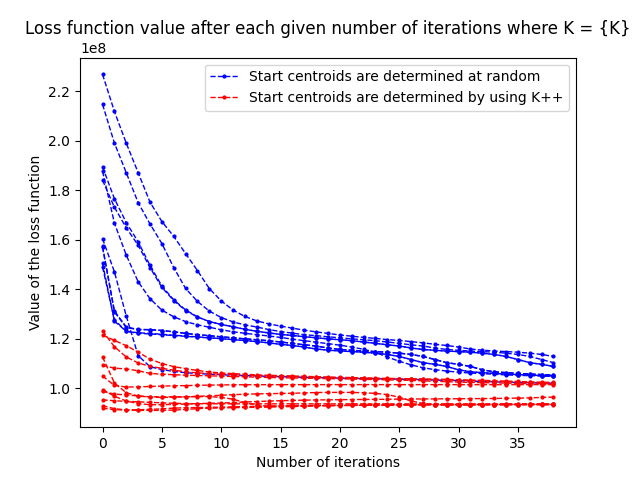
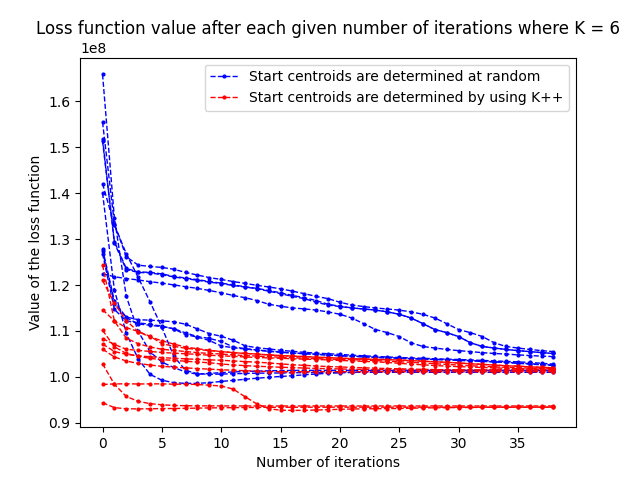
Updated the graphs that show the difference between the two starting methods

diff --git a/Question1/Question 1a/ComparingStartCentroidMethods.py b/Question1/Question 1a/ComparingStartCentroidMethods.py
@@ -9,6 +9,7 @@ import matplotlib.pyplot as plt
 dataSetFilePath = 'Dataset/InputData.csv'
 
 randomCentroidsList = [] 
+randomCentroidsFinalLossList = []
 
 # First iteration which uses random start centroids
 def startFirstIterationRandom(K):
@@ -24,14 +25,24 @@ def improveRandomCentroidStartForFourtySteps(K):
     startLossFunctionValue = currentAlgorithmIterationValues.calculateLossFunctionValue()
     lossFunctionvalue = startLossFunctionValue
     while (lossFunctionvalue != None):
-        lossFunctionvalue = runNewIterationWithFixedEnd(currentAlgorithmIterationValues, currentRunNumber)
+        lossFunctionvalue = runNewIterationWithFixedEndRandom(currentAlgorithmIterationValues, currentRunNumber)
         randomCentroidsListForK.append(lossFunctionvalue)
         currentRunNumber += 1
     randomCentroidsList.append(randomCentroidsListForK)
     return lossFunctionvalue
 
+# Changes w.r.t normal runNewIteration is removing the treshold and use a hardcoded amount of iterations instead and removing redundant variables
+def runNewIterationWithFixedEndRandom(currentAlgorithmIterationValues, currentRunNumber):
+    currentAlgorithmIterationValues.improveLossFunctionValue()
+    newLossFunctionValue = currentAlgorithmIterationValues.calculateLossFunctionValue()
+    if (currentRunNumber == 39):
+        randomCentroidsFinalLossList.append(newLossFunctionValue)
+        return None
+    return newLossFunctionValue
+
 
 KPlusPlusList = []
+KPlusPlusFinalLossList = []
 
 # First iteration which uses K++ start centroids
 def startFirstIterationKplusplus(K):
@@ -42,41 +53,35 @@ def startFirstIterationKplusplus(K):
 
 # Minor changes w.r.t improveUntilTresholdReached() consisting of appending to list for plotting and removing redundant variables 
 def improveKPlusplusCentroidStartForFourtySteps(K):
-    print("\n")
     KPlusPlusCentroidsListForK = []
     currentRunNumber = 0
     currentAlgorithmIterationValues = startFirstIterationKplusplus(K)
     startLossFunctionValue = currentAlgorithmIterationValues.calculateLossFunctionValue()
     lossFunctionvalue = startLossFunctionValue
     while (lossFunctionvalue != None):
-        lossFunctionvalue = runNewIterationWithFixedEnd(currentAlgorithmIterationValues, currentRunNumber)
+        lossFunctionvalue = runNewIterationWithFixedEndKlusPlus(currentAlgorithmIterationValues, currentRunNumber)
         KPlusPlusCentroidsListForK.append(lossFunctionvalue)
         currentRunNumber += 1
     KPlusPlusList.append(KPlusPlusCentroidsListForK)
     return lossFunctionvalue
 
 # Changes w.r.t normal runNewIteration is removing the treshold and use a hardcoded amount of iterations instead and removing redundant variables
-def runNewIterationWithFixedEnd(currentAlgorithmIterationValues, currentRunNumber):
+def runNewIterationWithFixedEndKlusPlus(currentAlgorithmIterationValues, currentRunNumber):
     currentAlgorithmIterationValues.improveLossFunctionValue()
     newLossFunctionValue = currentAlgorithmIterationValues.calculateLossFunctionValue()
     if (currentRunNumber == 39):
-        finalLoss.append(newLossFunctionValue)
+        KPlusPlusFinalLossList.append(newLossFunctionValue)
         return None
     return newLossFunctionValue
-
-finalLoss = []
 
 # Iterate from K=2 to K=41
 for K in range(2, 41):
     plt.clf()
-    
-    
+    KPlusPlusFinalLossList = []
+    randomCentroidsFinalLossList = []
+
     randomCentroidsList = [] # Clear the plot list values after each plot
     KPlusPlusList = []
-
-    finalLoss.append("RANDOM")
-    finalLoss.append(f"K = {K}")
-    
     AmountOfIterationsList = []
     
     for i in range(0, 40):
@@ -93,11 +98,8 @@ for K in range(2, 41):
     plt.plot(AmountOfIterationsList, randomCentroidsList[len(randomCentroidsList) - 1], color='blue', linestyle='dashed', linewidth = 1,
             marker='o', markerfacecolor='blue', markersize=2, label="Start centroids are determined at random")
 
-    finalLoss.append("SWITCHED TO K++")
-
     for i in range(10):
         improveKPlusplusCentroidStartForFourtySteps(K) # run 10 iterations of the K means Euclidean algorithm with K++ start centroids
-
 
     for index in range(0, len(KPlusPlusList) - 1): # Create Plots
         plt.plot(AmountOfIterationsList, KPlusPlusList[index], color='red', linestyle='dashed', linewidth = 1,
@@ -106,14 +108,24 @@ for K in range(2, 41):
     # Last plot seperate, because this one includes a label. If it was in the loop the label would be added len(randomCentroidsList) - 1 times
     plt.plot(AmountOfIterationsList, KPlusPlusList[len(KPlusPlusList) - 1], color='red', linestyle='dashed', linewidth = 1,
             marker='o', markerfacecolor='red', markersize=2, label="Start centroids are determined by using K++")
-        
-
+    
+    # Calculate the average of the end loss values
+    print(f"K = {K}, final Loss Random = {randomCentroidsFinalLossList}")
+    randomAverageLossTotal = 0
+    for lossValue in randomCentroidsFinalLossList:
+        randomAverageLossTotal += lossValue
+    print(f"K = {K}, final Loss Random = {randomAverageLossTotal/float(len(randomCentroidsFinalLossList))}")
+    
+    print(f"K = {K}, final Loss K++ = {randomCentroidsFinalLossList}")
+    kPlusPlusAverageLossTotal = 0
+    for lossValue in KPlusPlusFinalLossList:
+        kPlusPlusAverageLossTotal += lossValue
+    print(f"K = {K}, final Loss K++ = {kPlusPlusAverageLossTotal/float(len(randomCentroidsFinalLossList))}")
+    
     plt.legend(loc="upper right")
-
     plt.xlabel('Number of iterations')
     plt.ylabel('Value of the loss function')
     plt.title(f'Loss function value after each given number of iterations where K = {K}')
     plt.savefig(f'k={K}.png')
     plt.close()
     
-print(finalLoss)

diff --git a/Question1/Question 1a/AlgorithmClass.py b/Question1/Question 1a/AlgorithmClass.py
@@ -48,6 +48,13 @@ class KMeansClusteringEuclidean:
         
     def getCentroidVector(self, clusterIndex):                                      # Gets the centroid belonging to cluster index.  
         return self.centroidsMatrix[clusterIndex, :]
+    
+    def getClusterVectorSizesVector(self):
+        clusterVectorSizeVector = []
+        for clusterIndex in range(0, self.amountOfClusters):
+            clusterVector = self.getClusterVector(clusterIndex)                     # Gets the cluster vector i.e. the vector beloning to the cluster index that contains all the ID's of the points that are in that cluster.
+            clusterVectorSize = self.getClusterVectorSize(clusterVector)            
+            clusterVectorSizeVector.append(clusterVectorSize())
      
     #########################################################################################################
     # Setter functions
@@ -93,6 +100,8 @@ class KMeansClusteringEuclidean:
             clusterVectorSize = self.getClusterVectorSize(clusterVector)            
             sumOfClusterVectorEntries = self.calculateSumOfClusterVectorEntries(clusterVector)
             self.setCentroidOfCluster(clusterIndex, clusterVectorSize, sumOfClusterVectorEntries)  # calculate and set the new centroid
+    
+
     
     #########################################################################################################
     # Calculation functions

diff --git a/Question1/Question 1a/Run.py b/Question1/Question 1a/Run.py
@@ -23,6 +23,7 @@ def runNewIteration(previousLossFunctionvalue, currentAlgorithmIterationValues, 
     newLossFunctionValue = currentAlgorithmIterationValues.calculateLossFunctionValue()             # Determine the value of the loss function after the new centroid update
     if (previousLossFunctionvalue/newLossFunctionValue < threshold):                                # Since newLossFunctionValue <= previousLossFuncitonvalue we get a decreasing number, we stop when they're very close i.e. their fraction is very small
         currentAlgorithmIterationValues.fillClusterCSV()                                            # Fill each cluster's CSV file with its datapoints
+        print(currentAlgorithmIterationValues.getClusterVectorSizesVector())
         print(f"Final loss function value for K = {K} is {newLossFunctionValue}")
         return None                                                                                 # Return None when the ratio is below the Treshold
 
